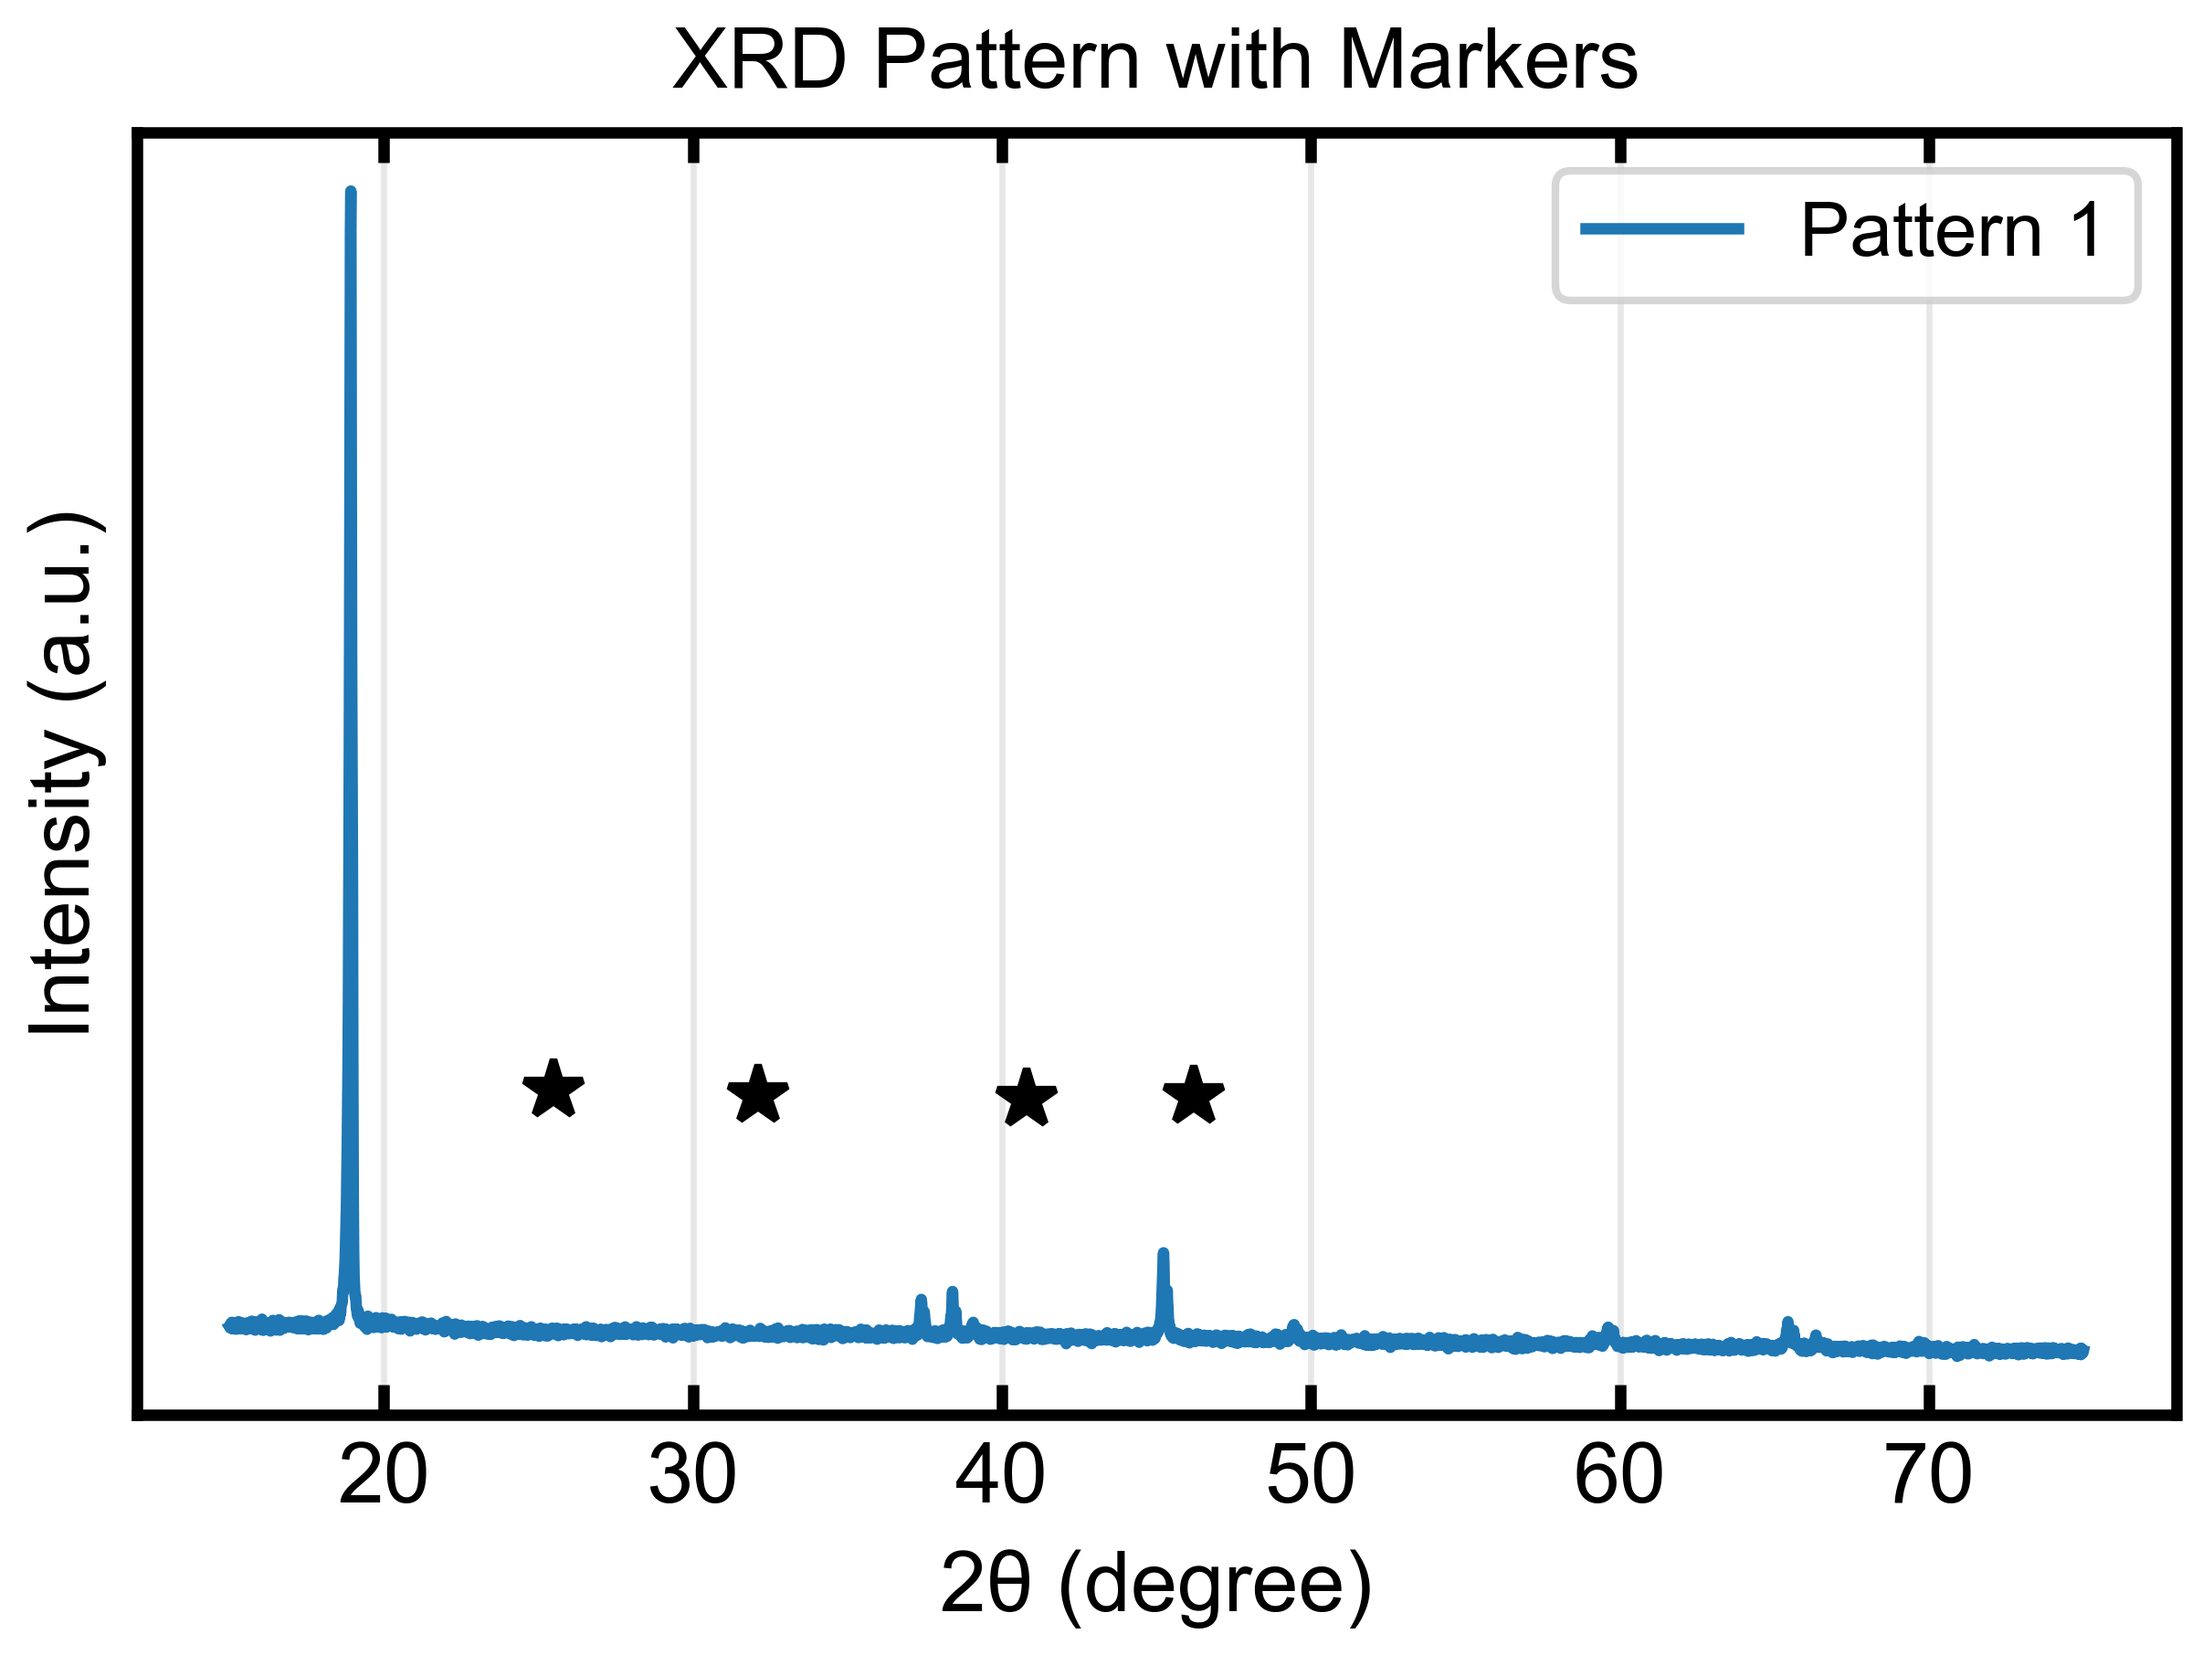
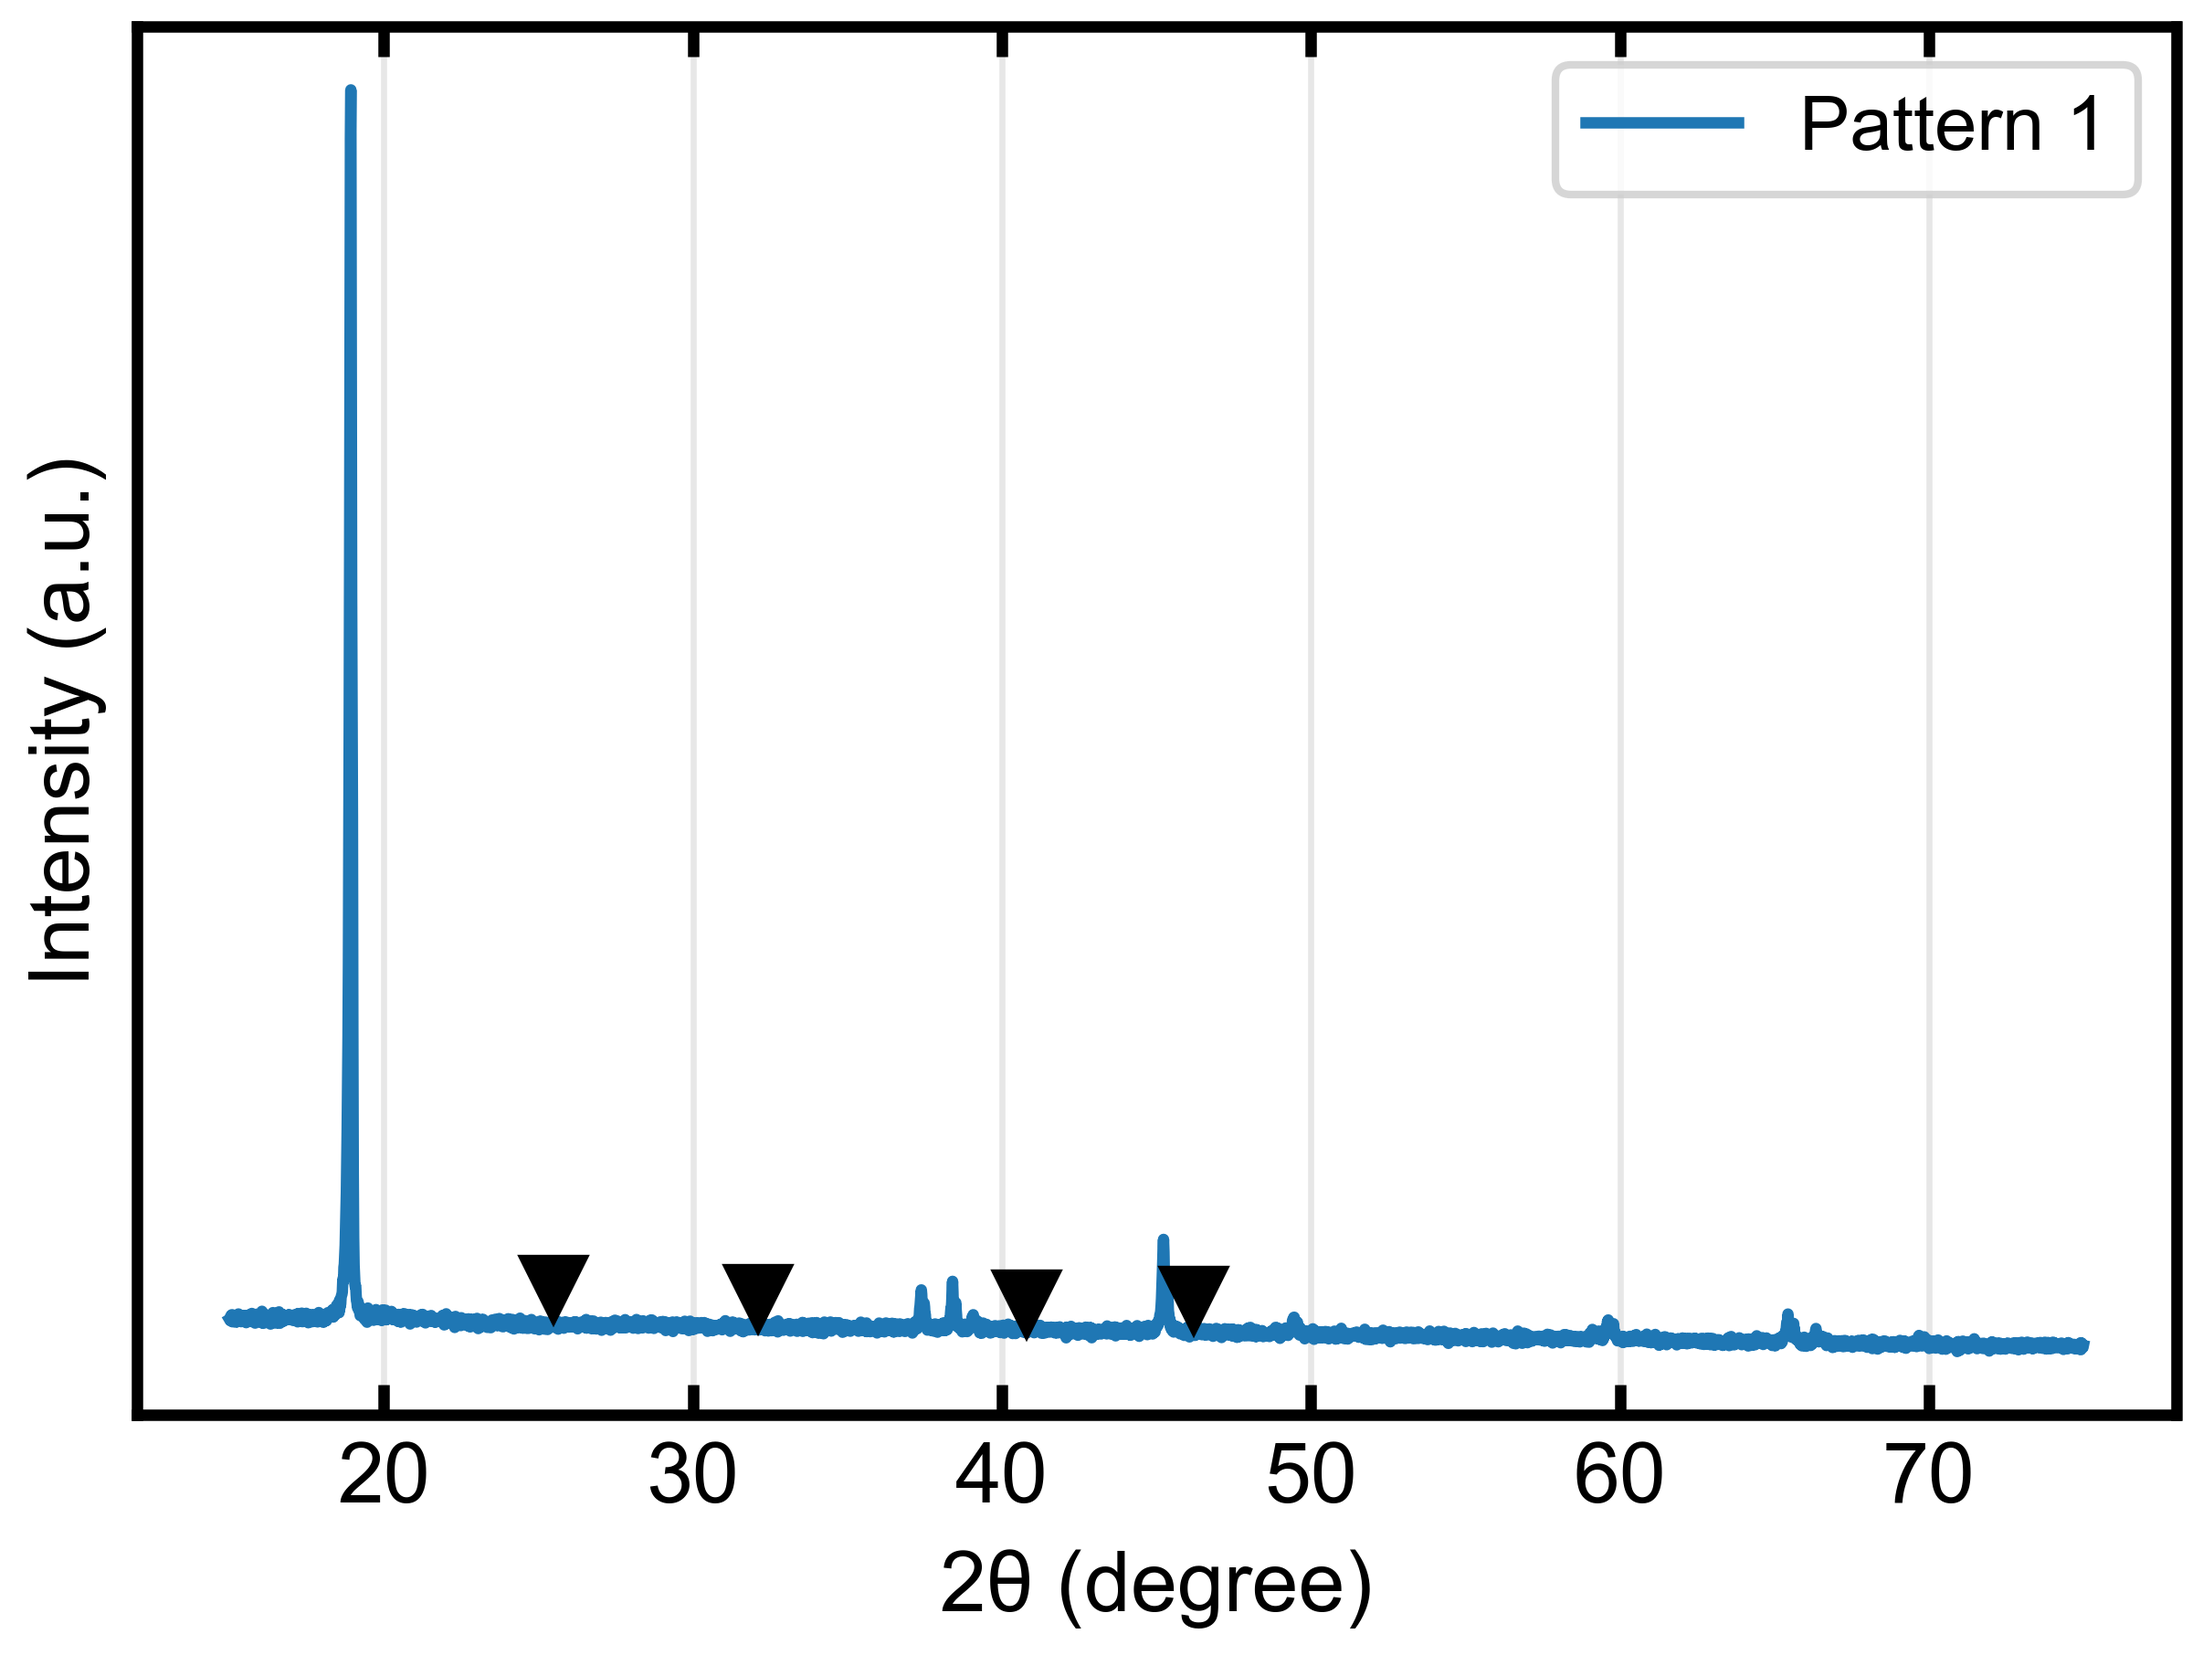
Simplified export_journal_style feature

diff --git a/src/MatSciKit_COSMOTIM/visualization/XRD_multiline_plot.py b/src/MatSciKit_COSMOTIM/visualization/XRD_multiline_plot.py
@@ -16,11 +16,7 @@ import numpy as np
 import matplotlib.pyplot as plt
 from typing import Dict, List, Tuple, Optional, Union, Any
 
-# Try relative import first, fall back to absolute import
-try:
-    from .export_journal_style import apply_journal_style
-except ImportError:
-    from export_journal_style import apply_journal_style
+
 
 
 class XRDMultilinePlotter:
@@ -41,10 +37,8 @@ class XRDMultilinePlotter:
     def plot_patterns(self, data_list: Union[np.ndarray, List[np.ndarray]],
                      labels: Optional[List[str]] = None,
                      y_shift: float = 1.0,
-                     peak_markers: Optional[List[float]] = None,
-                     impurity_markers: Optional[List[Tuple[float, float]]] = None,
-                     title: str = "",
-                     journal_style: bool = False) -> plt.Figure:
+                     markers: Optional[List[float]] = None
+                     ) -> plt.Figure:
         """
         General method to plot multiple XRD patterns.
 
@@ -52,10 +46,7 @@ class XRDMultilinePlotter:
             data_list (Union[np.ndarray, List[np.ndarray]]): Single numpy array or list of numpy arrays from XRDDataReader.
             labels (List[str]): List of labels for each pattern. If None, generic labels are used.
             y_shift (float): Absolute vertical offset between patterns (default: 1.0).
-            peak_markers (list): List of 2theta positions to mark (stars).
-            impurity_markers (list): List of (x, y_scale) tuples for impurity markers (triangles).
-            title (str): Plot title.
-            journal_style (bool): If True, apply journal-style formatting to the plot.
+            markers (list): List of 2theta positions to mark with triangular markers.
         """
         fig, ax = plt.subplots(figsize=(10, 8))
 
@@ -94,7 +85,7 @@ class XRDMultilinePlotter:
                    label=labels[i])
 
         # Plot Peak Markers (Stars)
-        if peak_markers and len(data_list) >= 1:
+        if markers and len(data_list) >= 1:
             # Use the first dataset for height reference
             data_item = data_list[0]
             
@@ -102,10 +93,10 @@ class XRDMultilinePlotter:
                 two_theta = data_item[:, 0]
                 intensity = data_item[:, 1]
                 
-                for pos in peak_markers:
+                for pos in markers:
                     idx = np.argmin(np.abs(two_theta - pos))
-                    peak_intensity = intensity[idx] + 0.2  # Markers on first pattern only
-                    ax.plot(two_theta[idx], peak_intensity, '*', color='black', markersize=8)
+                    peak_intensity = intensity[idx] * 1.5  # Markers on first pattern only
+                    ax.plot(two_theta[idx], peak_intensity, 'v', color='black', markersize=8)
 
         # Finalize Plot
         ax.set_xlabel('2θ (degree)')
@@ -113,17 +104,10 @@ class XRDMultilinePlotter:
         ax.set_yticks([])
         ax.grid(True, alpha=0.3)
 
-        if title:
-            ax.set_title(title)
-
         # Legend handling
         handles, labels_legend = ax.get_legend_handles_labels()
         by_label = dict(zip(labels_legend, handles))
         ax.legend(by_label.values(), by_label.keys())
-
-        # Apply journal style if requested
-        if journal_style:
-            apply_journal_style(fig, ax)
 
         return fig
 
@@ -179,7 +163,7 @@ def main():
             name_list.append(fname.replace('.txt', ''))
     
     if data_list:
-        fig1 = plotter.plot_patterns(data_list, labels=name_list, title="XRD Patterns", journal_style=True)
+        fig1 = plotter.plot_patterns(data_list, labels=name_list)
         export_journal_figure(fig1, output_dir / "example1_patterns", format='png', dpi=600)
         # plt.savefig(output_dir / "example1_patterns.png", dpi=300)
         print(f"Saved {output_dir / 'example1_patterns.tiff'} and .png")
@@ -191,13 +175,9 @@ def main():
         
         if sample_data is not None:
             peak_positions = [25.5, 32.1, 40.8, 46.2]  # Example 2theta positions
-            impurities = [(21.3, 0.85), (31.8, 1.0)]  # (2theta, y_scale) tuples
             fig2 = plotter.plot_patterns(
                 sample_data, 
-                peak_markers=peak_positions,
-                impurity_markers=impurities,
-                title="XRD Pattern with Markers",
-                journal_style=True
+                markers = peak_positions
             )
             export_journal_figure(fig2, output_dir / "example2_with_markers", format='png', dpi=600)
             # plt.savefig(output_dir / "example2_with_markers.png", dpi=300)

diff --git a/src/MatSciKit_COSMOTIM/visualization/export_journal_style.py b/src/MatSciKit_COSMOTIM/visualization/export_journal_style.py
@@ -103,60 +103,3 @@ def export_journal_figure(fig: Optional[Figure] = None,
     print(f'Figure exported as {filename}')
 
 
-def apply_journal_style(fig: Optional[Figure] = None, ax: Optional[plt.Axes] = None) -> None:
-    """
-    Apply journal-style formatting to a matplotlib figure without exporting.
-    
-    This is a lighter version that only applies formatting without saving.
-    For full export functionality, use export_journal_figure().
-    
-    Args:
-        fig: Figure handle (defaults to current figure if None)
-        ax: Axes handle (defaults to current axes if None)
-    """
-    if fig is None:
-        fig = plt.gcf()
-    if ax is None:
-        ax = plt.gca()
-    
-    # Set axis spine properties
-    for spine in ax.spines.values():
-        spine.set_linewidth(1.5)
-    
-    # Set tick parameters
-    ax.tick_params(
-        which='both',
-        direction='in',
-        length=4,
-        width=1.5,
-        labelsize=11,
-        top=True,
-        right=True
-    )
-    
-    # Disable minor ticks
-    ax.minorticks_off()
-    
-    # Set font properties
-    for item in ([ax.xaxis.label, ax.yaxis.label] + 
-                 ax.get_xticklabels() + ax.get_yticklabels()):
-        item.set_fontsize(11)
-        item.set_fontname('Arial')
-    
-    # Set title font if exists
-    if ax.get_title():
-        ax.title.set_fontsize(11)
-        ax.title.set_fontname('Arial')
-    
-    # Set legend font if exists
-    legend = ax.get_legend()
-    if legend:
-        for text in legend.get_texts():
-            text.set_fontsize(10)
-            text.set_fontname('Arial')
-    
-    # Set figure properties
-    fig.patch.set_facecolor('white')
-    
-    # Adjust layout to prevent label clipping
-    fig.tight_layout(pad=0.3)
